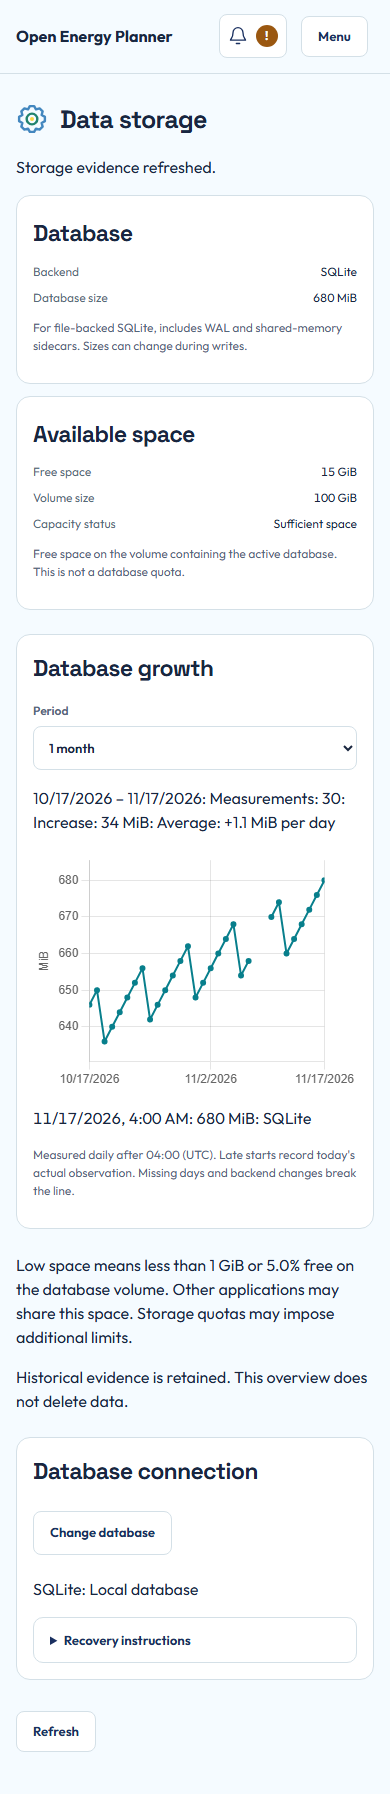
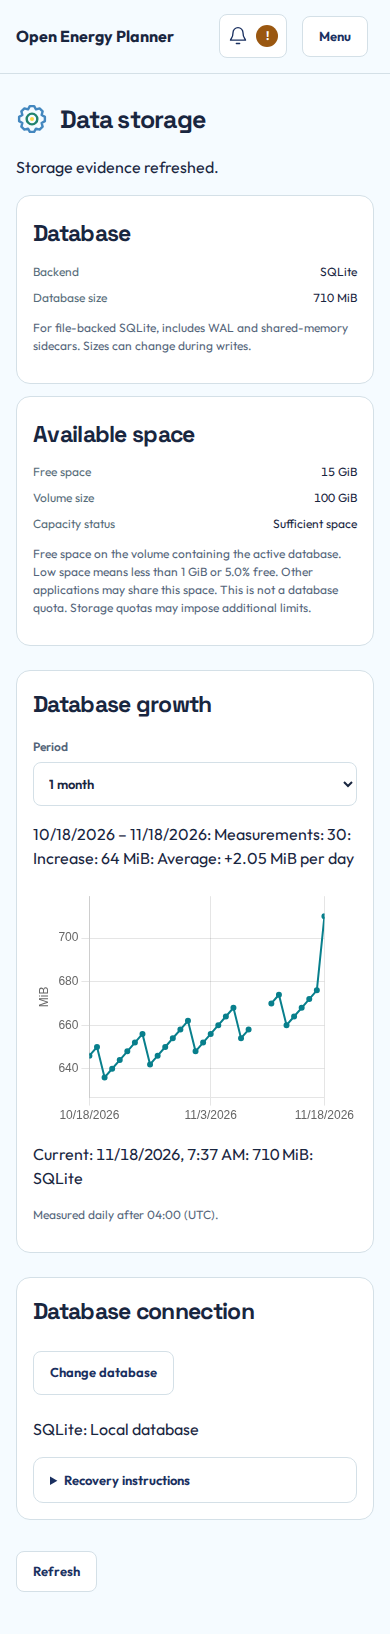
fix: align storage chart with current capacity

diff --git a/src/open_energy_planner/web/public/storage-history.js b/src/open_energy_planner/web/public/storage-history.js
@@ -1,6 +1,6 @@
-/** Plot durable daily measurements without filling missing days or joining different backends. */
+/** Plot daily history with the capacity card's current measurement for today. */
 import "./chart_theme.js";
-import {dateLabel, nextDate, useHomeAssistantTimezone, when} from "./display.js";
+import {dateLabel, localDate, nextDate, useHomeAssistantTimezone, when} from "./display.js";
 
 const READ_TIMEOUT_MILLISECONDS = 35000;
 const MILLISECONDS_PER_DAY = 86400000;
@@ -11,15 +11,16 @@ const BACKENDS = {sqlite: "SQLite", postgresql: "PostgreSQL", mysql: "MySQL", ma
 export function bindStorageHistory(readToken, bytes) {
     const find = id => document.getElementById(id);
     const base = document.querySelector('meta[name="oep-api-base"]').content;
-    let chart = null, requestVersion = 0, samples = [], selected = 0, keyboardSelection = false;
+    let chart = null, requestVersion = 0, samples = [], selected = 0, keyboardSelection = false, currentUsage = null;
     /** Expose the same measurement to pointer, keyboard and assistive readers. */
     function inspect(index) {
         selected = index;
         const row = samples[index];
-        find("storage-history-selected").textContent = row ? `${when(row.observed_at)}: ${bytes(row.database_bytes)}${row.database_estimated ? " (estimated)" : ""}: ${BACKENDS[row.backend] || "Unknown backend"}` : "";
+        find("storage-history-selected").textContent = row ? `${row.current ? "Current: " : ""}${when(row.observed_at)}: ${bytes(row.database_bytes)}${row.database_estimated ? " (estimated)" : ""}: ${BACKENDS[row.backend] || "Unknown backend"}` : "";
     }
     /** Replace old evidence immediately so failed or reordered reads cannot show a stale period. */
-    async function load() {
+    async function load(usage) {
+        if (usage) currentUsage = usage;
         const version = ++requestVersion;
         chart?.destroy(); chart = null; samples = [];
         find("storage-history-plot").hidden = true;
@@ -35,15 +36,21 @@ export function bindStorageHistory(readToken, bytes) {
             useHomeAssistantTimezone(history.timezone);
             samples = history.samples;
             const sampleTime = `${String(history.sample_hour).padStart(2, "0")}:00`;
-            find("storage-history-note").textContent = history.timezone ? `Measured daily after ${sampleTime} (${history.timezone}). Late starts record today's actual observation. Missing days and backend changes break the line.` : "Daily measurements start when the Home Assistant installation timezone is available. Missing days remain gaps.";
+            find("storage-history-note").textContent = history.timezone ? `Measured daily after ${sampleTime} (${history.timezone}).` : "Daily measurements start when the Home Assistant installation timezone is available.";
             if (!history.timezone) {
                 find("storage-history-summary").textContent = "Waiting for the Home Assistant installation timezone. Refresh after the connection is restored.";
                 return;
             }
+            const currentDay = currentUsage && localDate(currentUsage.observed_at);
+            if (currentDay >= history.start && currentDay <= history.end) {
+                // Keep the view aligned with the displayed snapshot, including across local midnight.
+                samples = samples.filter(row => row.day < currentDay);
+                samples.push({...currentUsage, day: currentDay, current: true});
+            }
             const known = samples.filter(row => Number.isFinite(row.database_bytes));
             const first = known[0], last = known.at(-1);
             let summary = samples.length ? "Daily observations were recorded, but database size was unavailable. Missing sizes remain gaps." : `No database size measurements in this period. The first daily measurement appears after ${sampleTime} when the app is running.`;
-            if (known.length === 1) summary = `Recorded size: ${bytes(last.database_bytes)}${last.database_estimated ? " (estimated)" : ""}: At least two measurements are needed to show growth.`;
+            if (known.length === 1) summary = "";
             if (known.length > 1) {
                 const change = last.database_bytes - first.database_bytes;
                 const sameBackend = samples.every(row => row.backend === first.backend);
@@ -93,12 +100,12 @@ export function bindStorageHistory(readToken, bytes) {
                         y: {title: {display: true, text: "MiB"}, ticks: {callback: value => value.toLocaleString(undefined, {maximumFractionDigits: 2})}},
                     },
                     plugins: {legend: {display: false}, tooltip: {callbacks: {
-                        title: items => when(items[0].raw.row.observed_at),
+                        title: items => `${items[0].raw.row.current ? "Current: " : ""}${when(items[0].raw.row.observed_at)}`,
                         label: item => `${bytes(item.raw.row.database_bytes)}${item.raw.row.database_estimated ? " (estimated)" : ""}: ${BACKENDS[item.raw.row.backend] || "Unknown backend"}`,
                     }}},
                 },
             });
-            inspect(samples.indexOf(last));
+            inspect(samples.length - 1);
         } catch {
             if (version === requestVersion) {
                 chart?.destroy(); chart = null; samples = [];
@@ -109,7 +116,7 @@ export function bindStorageHistory(readToken, bytes) {
             }
         }
     }
-    find("storage-period").addEventListener("change", load);
+    find("storage-period").addEventListener("change", () => load());
     find("storage-observation").addEventListener("change", event => inspect(Number(event.target.value)));
     find("storage-history-chart").addEventListener("keydown", event => {
         if (!["ArrowLeft", "ArrowRight", "Home", "End"].includes(event.key) || !samples.length) return;

diff --git a/src/open_energy_planner/web/public/data-storage.js b/src/open_energy_planner/web/public/data-storage.js
@@ -39,14 +39,14 @@ async function load() {
         find("volume-size").textContent = bytes(usage.disk_total_bytes);
         find("capacity-status").textContent = {ok: "Sufficient space", low: "Low space", unknown: "Unknown", unavailable: "Measurement unavailable"}[usage.status] || "Unknown";
         find("size-scope").textContent = usage.backend === "sqlite" ? "For file-backed SQLite, includes WAL and shared-memory sidecars. Sizes can change during writes." : usage.database_estimated ? "Estimated size of visible tables and indexes in the connected database, including tables belonging to other applications. Server storage overhead is excluded." : "Whole connected database, including tables belonging to other applications. Server storage overhead is excluded.";
-        find("capacity-note").textContent = usage.disk_free_bytes === null ? "Free space cannot be determined for this database. Check the database host or provider for capacity and quotas." : "Free space on the volume containing the active database. This is not a database quota.";
+        find("capacity-note").textContent = usage.disk_free_bytes === null ? "Free space cannot be determined for this database. Check the database host or provider for capacity and quotas." : "Free space on the volume containing the active database. Low space means less than 1 GiB or 5.0% free. Other applications may share this space. This is not a database quota. Storage quotas may impose additional limits.";
         const warning = find("storage-warning");
         warning.hidden = usage.status !== "low";
         warning.textContent = "Low storage space. Free space on the database volume or expand its capacity to protect future writes. Back up retained evidence before removing any files.";
         find("status").textContent = usage.measurement_failed ? "Some storage measurements are unavailable. Refresh to try again." : "Storage evidence refreshed.";
         find("connect").hidden = true;
         find("storage").hidden = false;
-        await refreshHistory();
+        await refreshHistory(usage);
     } catch {
         find("status").textContent = find("database-connection").dataset.running === "false" ? "The app is paused for database maintenance. Storage measurements return after restart." : "Storage evidence unavailable. Check the connection and try again.";
     } finally {

diff --git a/src/open_energy_planner/web/pages/data-storage.html b/src/open_energy_planner/web/pages/data-storage.html
@@ -16,10 +16,8 @@
 <div class="storage-history-plot" id="storage-history-plot" hidden><canvas id="storage-history-chart" tabindex="0" role="img" aria-label="Daily database size. Use Left and Right arrow keys to inspect measurements." aria-describedby="storage-history-selected"></canvas></div>
 <div id="storage-observation-field" hidden><label for="storage-observation">Observation</label><select id="storage-observation"></select></div>
 <p id="storage-history-selected" aria-live="polite"></p>
-<p id="storage-history-note" class="muted">One measurement each day at 04:00 in the Home Assistant installation timezone. Missing days remain gaps.</p>
+<p id="storage-history-note" class="muted"></p>
 </section>
-<p>Low space means less than 1 GiB or 5.0% free on the database volume. Other applications may share this space. Storage quotas may impose additional limits.</p>
-<p>Historical evidence is retained. This overview does not delete data.</p>
 </section>
 <section class="evidence-card storage-connection" aria-labelledby="connection-title" id="database-connection" hidden>
 <div class="storage-connection-heading"><h2 id="connection-title">Database connection</h2><button id="change-database" type="button" class="secondary">Change database</button></div>

diff --git a/tests/frontend/browser/test_storage_history.py b/tests/frontend/browser/test_storage_history.py
@@ -43,15 +43,17 @@ def daily_storage_history(monkeypatch):
             connection.execute(STORAGE_SAMPLES.insert(), rows)
 
     monkeypatch.setattr(StorageHistory, "__init__", seeded)
+    usage = StorageUsage(
+        "sqlite",
+        database_bytes=710 * 1024**2,
+        disk_total_bytes=100 * 1024**3,
+        disk_free_bytes=15 * 1024**3,
+    )
     monkeypatch.setattr(
         "open_energy_planner.storage.adapters.usage.storage_usage",
-        lambda _engine: StorageUsage(
-            "sqlite",
-            database_bytes=680 * 1024**2,
-            disk_total_bytes=100 * 1024**3,
-            disk_free_bytes=15 * 1024**3,
-        ),
+        lambda _engine: usage,
     )
+    return usage
 
 
 def test_daily_storage_chart_periods_keyboard_gaps_and_recovery(daily_storage_history, app_page):
@@ -73,6 +75,13 @@ def test_daily_storage_chart_periods_keyboard_gaps_and_recovery(daily_storage_hi
     assert 28 <= len(state["points"]) <= 32
     assert len([point for point in state["points"] if point["y"] is None]) == 2
     assert state["spanGaps"] is False
+    assert state["points"][-1]["y"] == 710
+    assert state["points"][-1]["row"]["current"] is True
+    expect(page.locator("#database-size")).to_have_text("710 MiB")
+    expect(page.locator("#storage-history-selected")).to_contain_text("Current:")
+    expect(page.locator("#capacity-note")).to_contain_text("Low space means less than 1 GiB")
+    assert "Historical evidence is retained" not in page.locator("main").inner_text()
+    assert "Late starts record" not in page.locator("main").inner_text()
     canvas.focus()
     canvas.press("Home")
     first = page.locator("#storage-history-selected").inner_text()
@@ -92,6 +101,7 @@ def test_daily_storage_chart_periods_keyboard_gaps_and_recovery(daily_storage_hi
         ) as loaded:
             page.locator("#storage-period").select_option(period)
         rows = loaded.value.json()
+        assert rows["samples"][-1]["database_bytes"] == 680 * 1024**2
         if period == "quarter":
             quarter_rows = rows
         expect(canvas).to_be_visible()
@@ -123,14 +133,33 @@ def test_daily_storage_chart_periods_keyboard_gaps_and_recovery(daily_storage_hi
     expect(page.locator("#storage")).to_be_visible()
     assert "private-password" not in page.locator("main").inner_text()
     page.unroute("**/v1/storage/history?*")
+    daily_storage_history.database_bytes = int(724.5 * 1024**2)
     page.get_by_role("button", name="Refresh", exact=True).click()
     expect(canvas).to_be_visible()
+    expect(page.locator("#database-size")).to_have_text("724.5 MiB")
+    expect(page.locator("#storage-history-selected")).to_contain_text("724.5 MiB")
+    assert (
+        page.evaluate(
+            "Chart.getChart(document.getElementById('storage-history-chart')).data.datasets[0].data.at(-1).y"
+        )
+        == 724.5
+    )
     assert not errors
 
 
 def test_storage_history_empty_unknown_and_backend_changes(app_page):
     """Explain empty and unknown history without zeroes, then avoid comparing different size scopes."""
     page, url = app_page
+    page.route(
+        "**/v1/storage",
+        lambda route: route.fulfill(
+            json={
+                "backend": "sqlite",
+                "database_bytes": 8192,
+                "observed_at": "2026-11-18T12:00:00Z",
+            }
+        ),
+    )
     body = {
         "period": "month",
         "start": "2026-10-17",
@@ -194,7 +223,7 @@ def test_storage_history_empty_unknown_and_backend_changes(app_page):
         database_bytes=512 * 1024**2, backend="sqlite", database_estimated=False
     )
     page.get_by_role("button", name="Refresh", exact=True).click()
-    expect(page.locator("#storage-history-summary")).to_contain_text("At least two measurements")
+    expect(page.locator("#storage-history-summary")).to_be_empty()
     expect(observation).to_be_hidden()
     body["samples"].append(
         {
@@ -226,3 +255,75 @@ def test_storage_history_empty_unknown_and_backend_changes(app_page):
     assert page.evaluate(
         "Chart.getChart(document.getElementById('storage-history-chart')).getDatasetMeta(0).dataset.segments.some(segment => segment.style?.borderColor === 'transparent')"
     )
+
+
+def test_current_storage_point_uses_shared_measurement_and_installation_date(app_page):
+    """Project live known and unknown bytes on the HA date without changing durable observations."""
+    page, url = app_page
+    usage = {
+        "backend": "mysql",
+        "database_bytes": 7 * 1024**2,
+        "database_estimated": True,
+        "observed_at": "2026-11-17T23:15:00Z",
+        "disk_total_bytes": None,
+        "disk_free_bytes": None,
+    }
+    daily = {
+        "period": "month",
+        "start": "2026-11-17",
+        "end": "2026-11-18",
+        "timezone": "Europe/Amsterdam",
+        "sample_hour": 4,
+        "samples": [
+            {
+                "day": "2026-11-17",
+                "observed_at": "2026-11-17T03:00:00Z",
+                "backend": "mysql",
+                "database_bytes": 4 * 1024**2,
+                "database_estimated": True,
+            },
+            {
+                "day": "2026-11-18",
+                "observed_at": "2026-11-18T03:00:00Z",
+                "backend": "mysql",
+                "database_bytes": 5 * 1024**2,
+                "database_estimated": True,
+            },
+        ],
+    }
+    capacity_reads = []
+    page.route(
+        "**/v1/storage",
+        lambda route: (capacity_reads.append(route.request), route.fulfill(json=usage)),
+    )
+    page.route("**/v1/storage/history?*", lambda route: route.fulfill(json=daily))
+    page.goto(url + "/data-storage")
+    page.get_by_label("Installation API token").fill(TOKEN)
+    page.get_by_role("button", name="Connect", exact=True).click()
+    expect(page.locator("#database-size")).to_have_text("7 MiB (estimated)")
+    expect(page.locator("#storage-history-selected")).to_have_text(
+        "Current: 11/18/2026, 12:15 AM: 7 MiB (estimated): MySQL"
+    )
+    assert page.evaluate(
+        "Chart.getChart(document.getElementById('storage-history-chart')).data.datasets[0].data.map(point => point.y)"
+    ) == [4, 7]
+    daily["end"] = "2026-11-19"
+    daily["samples"].append(
+        {**daily["samples"][-1], "day": "2026-11-19", "database_bytes": 6 * 1024**2}
+    )
+    page.locator("#storage-period").select_option("week")
+    expect(page.locator("#storage-history-selected")).to_contain_text("7 MiB (estimated)")
+    wait_for_product_reads(page)
+    assert len(capacity_reads) == 1
+    assert page.evaluate(
+        "Chart.getChart(document.getElementById('storage-history-chart')).data.datasets[0].data.map(point => point.y)"
+    ) == [4, 7, None]
+    usage["database_bytes"] = None
+    page.get_by_role("button", name="Refresh", exact=True).click()
+    expect(page.locator("#database-size")).to_have_text("Unknown (estimated)")
+    expect(page.locator("#storage-history-selected")).to_contain_text(
+        "Current: 11/18/2026, 12:15 AM: Unknown (estimated): MySQL"
+    )
+    assert page.evaluate(
+        "Chart.getChart(document.getElementById('storage-history-chart')).data.datasets[0].data.map(point => point.y)"
+    ) == [4, None, None]

diff --git a/tests/frontend/browser/test_navigation.py b/tests/frontend/browser/test_navigation.py
@@ -49,6 +49,9 @@ def test_storage_navigation_authentication_refresh_and_warning(app_page, monkeyp
     expect(page.locator("#storage-warning")).to_be_visible()
     expect(page.locator("#free-space")).to_have_text("0 B")
     expect(page.locator("#capacity-status")).to_have_text("Low space")
+    capacity_card = page.get_by_role("heading", name="Available space", exact=True).locator("..")
+    expect(capacity_card).to_contain_text("Low space means less than 1 GiB or 5.0% free.")
+    expect(capacity_card).to_contain_text("Storage quotas may impose additional limits.")
     page.screenshot(
         path=f"results/ci/storage-low-{page.viewport_size['width']}-{'ingress' in url}.png",
         full_page=True,
@@ -64,6 +67,7 @@ def test_storage_navigation_authentication_refresh_and_warning(app_page, monkeyp
     expect(page.locator("#free-space")).to_have_text("Unknown")
     expect(page.locator("#database-size")).to_have_text("2 KiB (estimated)")
     expect(page.locator("#capacity-status")).to_have_text("Unknown")
+    expect(capacity_card).to_contain_text("Free space cannot be determined for this database.")
     page.route("**/v1/storage", lambda route: route.fulfill(status=503, body="private/path secret"))
     page.get_by_role("button", name="Refresh", exact=True).click()
     expect(page.locator("#status")).to_contain_text("Storage evidence unavailable")

diff --git a/tests/database/contracts/test_storage_usage.py b/tests/database/contracts/test_storage_usage.py
@@ -2,6 +2,7 @@
 
 import asyncio
 import threading
+from datetime import UTC, datetime
 from types import SimpleNamespace
 
 import pytest
@@ -212,10 +213,13 @@ def test_api_requires_authentication_and_runs_probe_off_event_loop(tmp_path, mon
         ) as client:
             assert (await client.get("/v1/storage")).status == 401
             assert (await client.get("/data-storage")).status == 200
+            started = datetime.now(UTC)
             response = await client.get("/v1/storage", headers={"Authorization": f"Bearer {token}"})
             assert response.status == 200
             assert response.headers["Cache-Control"] == "no-store"
-            assert await response.json() == {
+            body = await response.json()
+            assert started <= datetime.fromisoformat(body.pop("observed_at")) <= datetime.now(UTC)
+            assert body == {
                 "backend": "postgresql",
                 "database_bytes": 8192,
                 "database_estimated": False,

diff --git a/src/open_energy_planner/storage/api.py b/src/open_energy_planner/storage/api.py
@@ -44,7 +44,12 @@ def register(app, engine, timezone):
         """Measure live capacity off the event loop without retaining an extra history point."""
         usage = await asyncio.to_thread(storage_capacity.storage_usage, engine)
         return web.json_response(
-            {**asdict(usage), "status": usage.status}, headers={"Cache-Control": "no-store"}
+            {
+                **asdict(usage),
+                "status": usage.status,
+                "observed_at": datetime.now(UTC).isoformat(timespec="microseconds"),
+            },
+            headers={"Cache-Control": "no-store"},
         )
 
     async def observations(request):

diff --git a/docs/users/data-storage.md b/docs/users/data-storage.md
@@ -40,6 +40,10 @@ For local SQLite, the page can show database size and available volume space. It
 ## Follow database growth
 
 **Database growth** shows daily database size, with **1 month** selected by default.
+Today's point is marked **Current** and uses the same measurement as the
+**Database size** card above. Refresh updates both together. Earlier points show
+the saved daily observations. The saved observation for today is preserved
+without being overwritten by a refresh.
 Use **Period** to choose one week, three months, one year or all retained history.
 The summary shows the change between the first and last available observation
 and the average change per elapsed day. A decrease can reflect database
@@ -49,8 +53,8 @@ The app records one measurement each day after **04:00 in the Home Assistant
 installation timezone**, checked every minute. No browser page needs to be open.
 Collection and the history window wait until the installation timezone is available. If the app starts
 later, it records the current day at the actual observation time. Days while the
-app was stopped remain gaps. The first point appears after the first eligible
-measurement. Two observations are needed to calculate growth.
+app was stopped remain gaps. Today's live point can appear before the first
+scheduled observation. Two available points are needed to calculate growth.
 
 Hover a point or focus the chart and use the Left and Right arrow keys to inspect
 its timestamp, size, backend and estimation status. Home and End reach the first

diff --git a/docs/development/DATABASE-SCHEMA.md b/docs/development/DATABASE-SCHEMA.md
@@ -71,6 +71,13 @@ retention or current contract valuation. See [archive reads](PLAN-ARCHIVE.md).
 
 Settings > Data storage reads the active engine through authenticated
 `GET /v1/storage`. This live read does not write history or prune retained data.
+Its `observed_at` is the UTC probe completion time with microseconds. The page
+uses this same response for the capacity card and today's graph point, marked
+**Current**. Period changes reuse that displayed measurement until Refresh.
+If the page crosses local midnight, later observations wait for Refresh so the
+graph does not advance beyond the displayed live snapshot.
+The projection never changes the stored daily row. A current unknown size remains
+unknown even when today's stored measurement was available.
 The separate authenticated `/v1/storage/migration` maintenance API manages
 cross-backend transfer from the same page. It adds no tables or columns. It copies
 and verifies the complete shared registry with writers stopped, then validates
